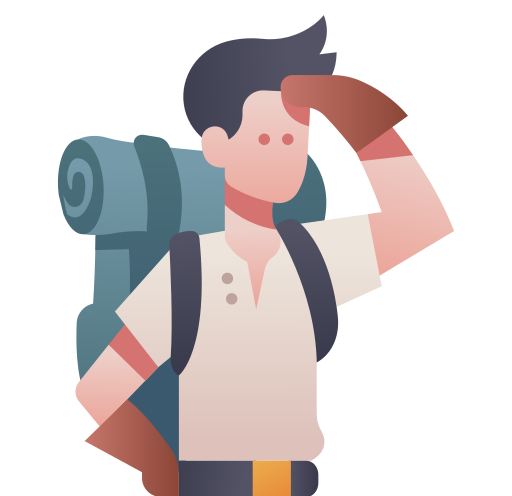
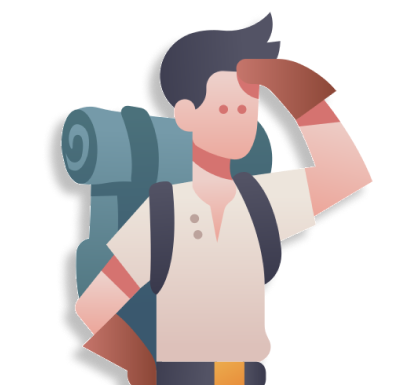
Add hover effects to buttons and shadows to pngs

diff --git a/src/components/Landing.css b/src/components/Landing.css
@@ -16,7 +16,6 @@ body {
     sm:bg-[length:300px,_300px,_cover] 
     md:bg-[length:400px,_400px,_cover]
     lg:bg-[length:450px,_450px,_cover]
-    drop-shadow-lg
     overflow-hidden 
     flex 
     flex-col 
@@ -40,5 +39,7 @@ body {
     text-gray-600 
     text-xl 
     font-medium 
-    cursor-pointer;
+    cursor-pointer
+    transition
+    ease-in-out delay-100 hover:scale-105 duration-300;
 }
